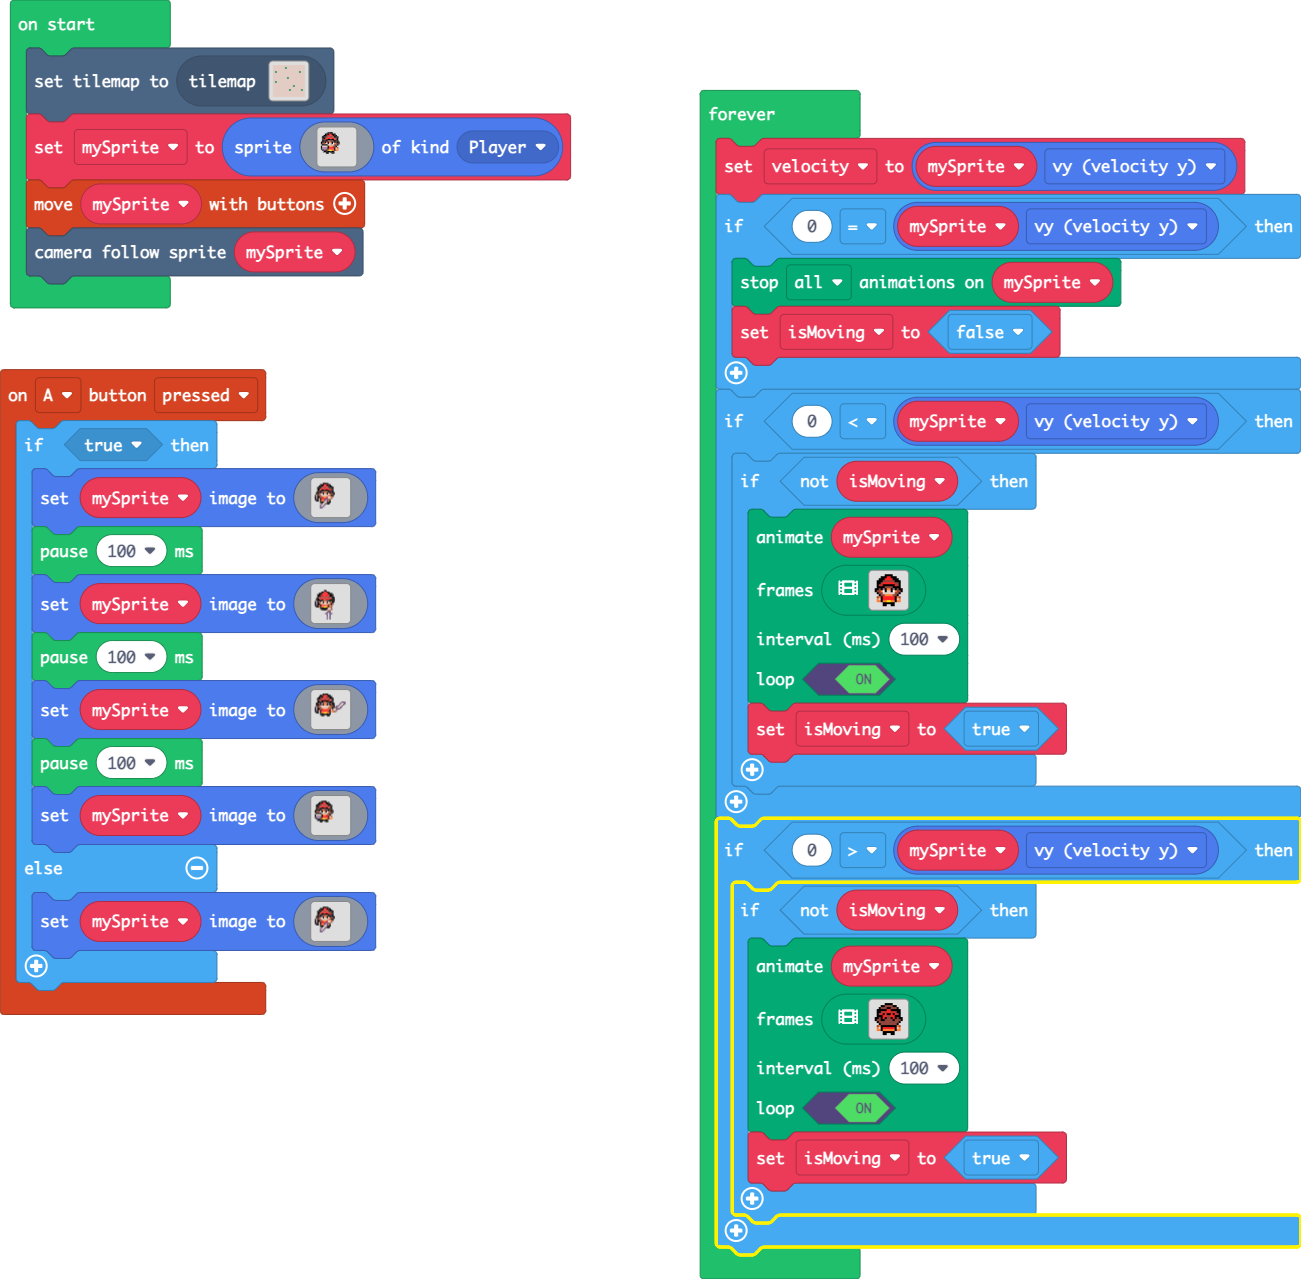
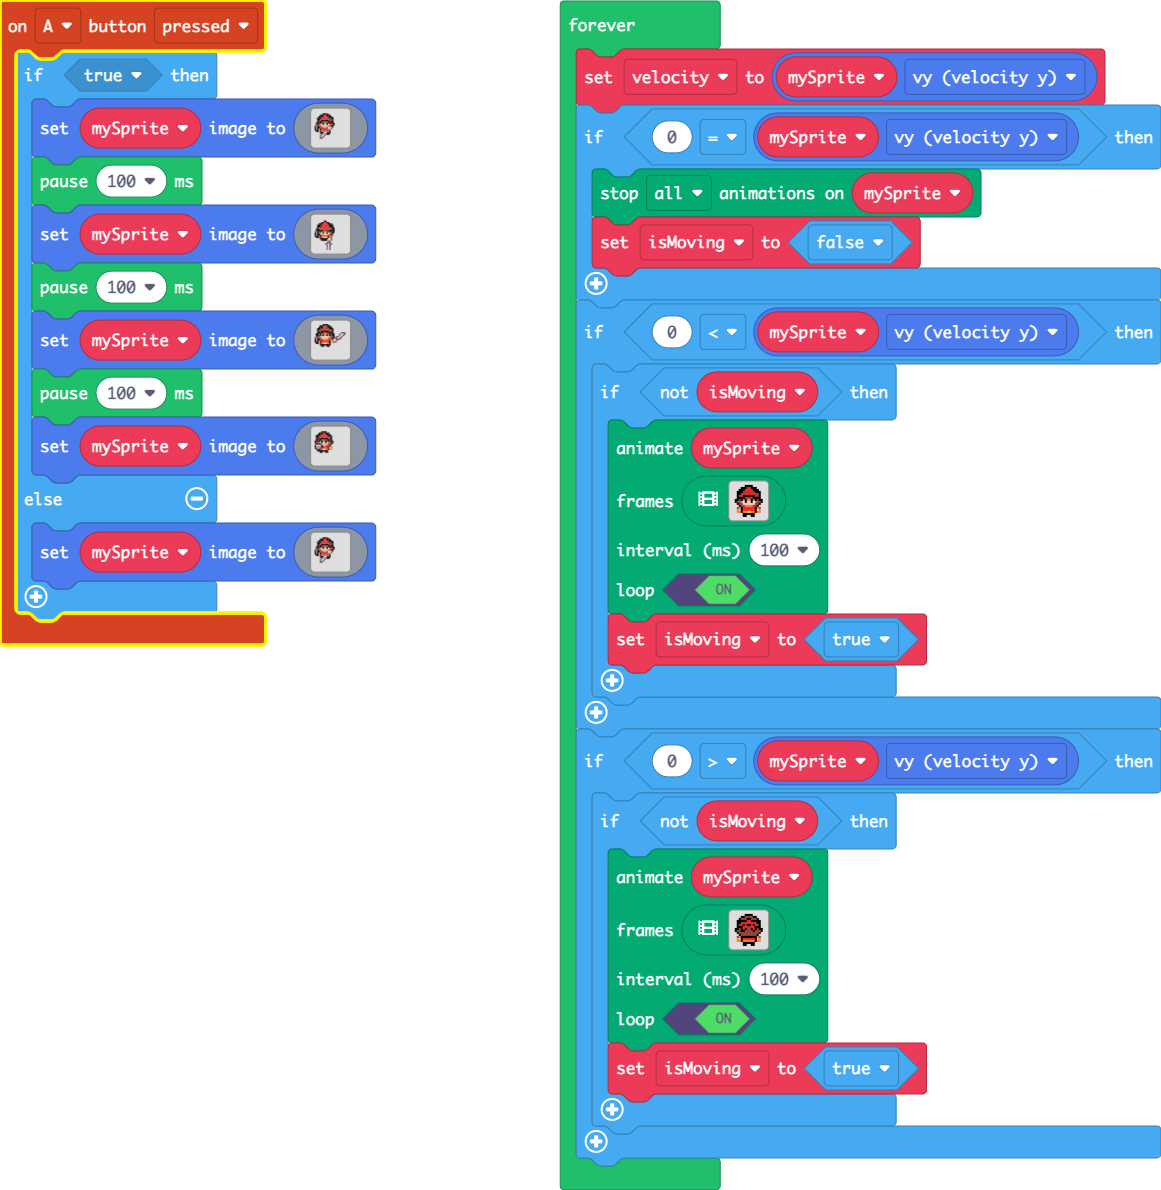
Remove on start

diff --git a/tilemap.g.ts b/tilemap.g.ts
@@ -62,6 +62,44 @@ namespace myTiles {
 . . . . . . . . . . . . . . . . 
 . . . . . . . . . . . . . . . . 
 `, [myTiles.transparency16], TileScale.Sixteen);
+            case "level4":
+            case "level4":return tiles.createTilemap(hex`1000100000000000000000000000000000000000000000000000000000000000000000000000000000000000000000000000000000000000000000000000000000000000000000000000000000000000000000000000000000000000000000000000000000000000000000000000000000000000000000000000000000000000000000000000000000000000000000000000000000000000000000000000000000000000000000000000000000000000000000000000000000000000000000000000000000000000000000000000000000000000000000000000000000000000000000000000000000000000000000000000000000000000000000000000000000000000`, img`
+. . . . . . . . . . . . . . . . 
+. . . . . . . . . . . . . . . . 
+. . . . . . . . . . . . . . . . 
+. . . . . . . . . . . . . . . . 
+. . . . . . . . . . . . . . . . 
+. . . . . . . . . . . . . . . . 
+. . . . . . . . . . . . . . . . 
+. . . . . . . . . . . . . . . . 
+. . . . . . . . . . . . . . . . 
+. . . . . . . . . . . . . . . . 
+. . . . . . . . . . . . . . . . 
+. . . . . . . . . . . . . . . . 
+. . . . . . . . . . . . . . . . 
+. . . . . . . . . . . . . . . . 
+. . . . . . . . . . . . . . . . 
+. . . . . . . . . . . . . . . . 
+`, [myTiles.transparency16], TileScale.Sixteen);
+            case "level5":
+            case "level5":return tiles.createTilemap(hex`1000100000000000000000000000000000000000000000000000000000000000000000000000000000000000000000000000000000000000000000000000000000000000000000000000000000000000000000000000000000000000000000000000000000000000000000000000000000000000000000000000000000000000000000000000000000000000000000000000000000000000000000000000000000000000000000000000000000000000000000000000000000000000000000000000000000000000000000000000000000000000000000000000000000000000000000000000000000000000000000000000000000000000000000000000000000000000`, img`
+. . . . . . . . . . . . . . . . 
+. . . . . . . . . . . . . . . . 
+. . . . . . . . . . . . . . . . 
+. . . . . . . . . . . . . . . . 
+. . . . . . . . . . . . . . . . 
+. . . . . . . . . . . . . . . . 
+. . . . . . . . . . . . . . . . 
+. . . . . . . . . . . . . . . . 
+. . . . . . . . . . . . . . . . 
+. . . . . . . . . . . . . . . . 
+. . . . . . . . . . . . . . . . 
+. . . . . . . . . . . . . . . . 
+. . . . . . . . . . . . . . . . 
+. . . . . . . . . . . . . . . . 
+. . . . . . . . . . . . . . . . 
+. . . . . . . . . . . . . . . . 
+`, [myTiles.transparency16], TileScale.Sixteen);
         }
         return null;
     })

diff --git a/main.ts b/main.ts
@@ -1,3 +1,6 @@
+let mySprite: Sprite = null
+let velocity = 0
+let isMoving = false
 controller.A.onEvent(ControllerButtonEvent.Pressed, function () {
     if (true) {
         mySprite.setImage(img`
@@ -136,38 +139,6 @@ controller.A.onEvent(ControllerButtonEvent.Pressed, function () {
             `)
     }
 })
-let isMoving = false
-let velocity = 0
-let mySprite: Sprite = null
-tiles.setCurrentTilemap(tilemap`level0`)
-mySprite = sprites.create(img`
-    ........................
-    .....ffff...............
-    ...fff22fff.............
-    ..fff2222fff............
-    .fffeeeeeefff...........
-    .ffe222222eef...........
-    .fe2ffffff2ef...........
-    .ffffeeeeffff...........
-    ffefbf44fbfeff..........
-    fee41fddf14eef..........
-    .ffffdddddeef...........
-    fddddf444eef............
-    fbbbbf2222f4e...........
-    fbbbbf2222fd4...........
-    .fccf45544f44...........
-    ..ffffffff..............
-    ....ff..ff..............
-    ........................
-    ........................
-    ........................
-    ........................
-    ........................
-    ........................
-    ........................
-    `, SpriteKind.Player)
-controller.moveSprite(mySprite)
-scene.cameraFollowSprite(mySprite)
 forever(function () {
     velocity = mySprite.vy
     if (0 == mySprite.vy) {
